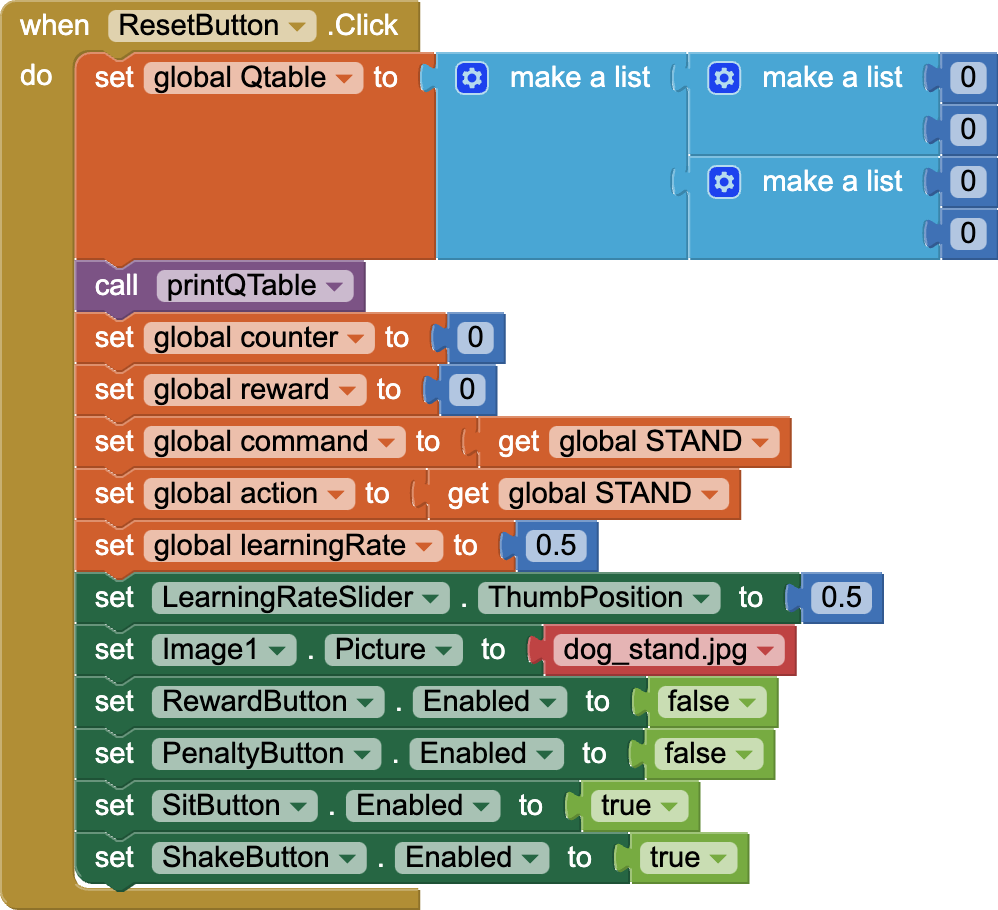
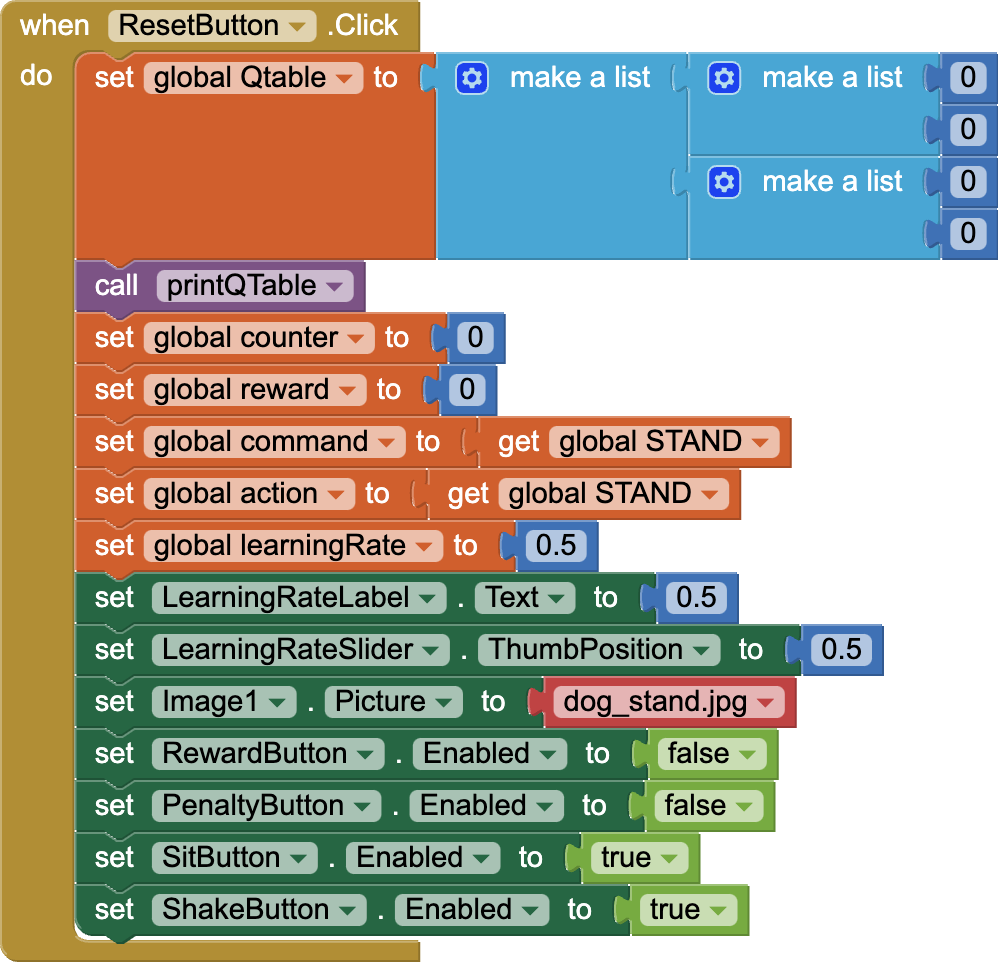
label initialization added

diff --git a/yr/tutorials/RL_TametheDog.md b/yr/tutorials/RL_TametheDog.md
@@ -180,7 +180,7 @@ In this code, see if you can explain what happens when the Reset button is click
 
 <hint markdown="block" title="Explanation">
 
-<strong><em>Qtable</em></strong> entries are re-initialized to 0’s, and these values are displayed via the <strong>printQTable</strong> procedure on the UI. The variables <strong><em>counter</em></strong> and <strong><em>reward</em></strong> are set to 0, and the variables <strong><em>command</em></strong> and <strong><em>action</em></strong> are also initialized to <strong><em>STAND</em></strong> (or the number 0). <strong><em>learningRate</em></strong> is re-initialized to 0.5, as is the <strong>LearningRateSlider.ThumbPosition</strong>. The dog’s image is set to the “standing” image. <strong>RewardButton</strong> and <strong>PenaltyButton</strong> are both disabled, and the <strong>SitButton</strong> and <strong>ShakeButton</strong> are enabled. Everything resets to what it was before the training started.
+<strong><em>Qtable</em></strong> entries are re-initialized to 0’s, and these values are displayed via the <strong>printQTable</strong> procedure on the UI. The variables <strong><em>counter</em></strong> and <strong><em>reward</em></strong> are set to 0, and the variables <strong><em>command</em></strong> and <strong><em>action</em></strong> are also initialized to <strong><em>STAND</em></strong> (or the number 0). <strong><em>learningRate</em></strong> and its label are re-initialized to 0.5, as is the <strong>LearningRateSlider.ThumbPosition</strong>. The dog’s image is set to the “standing” image. <strong>RewardButton</strong> and <strong>PenaltyButton</strong> are both disabled, and the <strong>SitButton</strong> and <strong>ShakeButton</strong> are enabled. Everything resets to what it was before the training started.
 </hint>
 <br />
 
